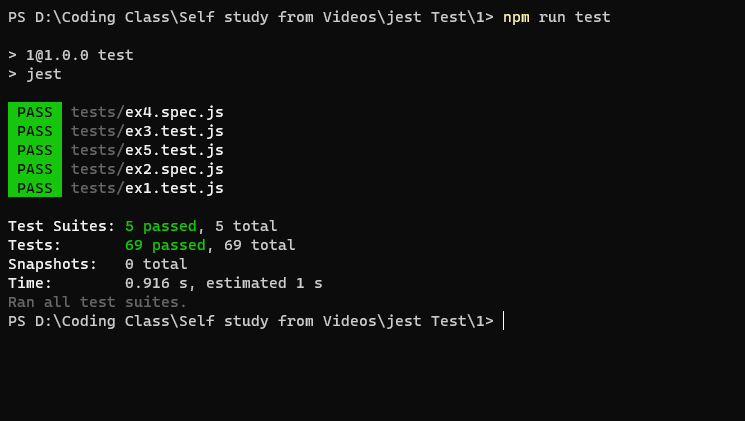
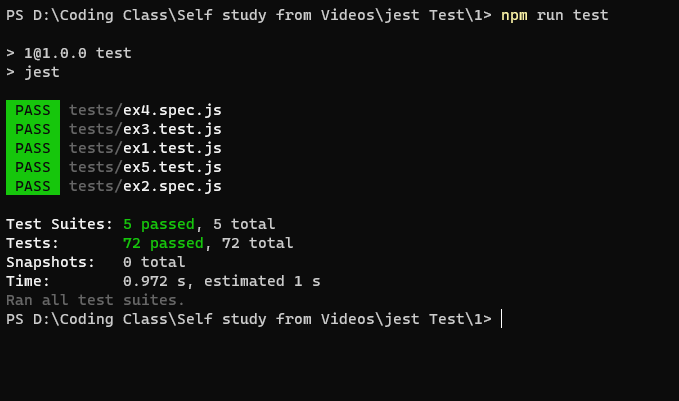
added ex2 in ex5.js file as well as new Error test.

Changed region(s): [[0.0, 0.2394, 0.7423, 0.808], [0.0, 0.0, 0.8969, 0.0599], [0.0, 0.1197, 0.2165, 0.2095]]

diff --git a/tests/ex5.test.js b/tests/ex5.test.js
@@ -1,5 +1,5 @@
 // @ts-nocheck
-const { ex1 } = require("../masalalar/ex5");
+const { ex1, ex2 } = require("../masalalar/ex5");
 
 describe(`
 Write a JavaScript function that returns a passed string with letters in alphabetical order.
@@ -34,4 +34,47 @@ Expected Output: 'abeemrstw'
   });
 });
 
-// console.log(ex1("Adfajsrewqpih")); // aAdefhijpqrsw
+describe(`
+Write a JavaScript function that accepts a string as a parameter and counts the number of vowels within the string.
+`, () => {
+  test("should return new Error 'argument must be string and can not be empty'\
+    if argument doesn't give", () => {
+    expect(ex2).toThrow();
+    expect(ex2).toThrow(/argument must be string and can not be empty/);
+  });
+  test("should return counts the number of vowels with in the string", () => {
+    let tempExample = "zokirkhon";
+    let result = ex2(tempExample);
+    expect(result).toBe(3);
+    expect(result).toEqual(3);
+    expect(result).not.toBe(2);
+    expect(result).not.toEqual(4);
+    expect(result).toBeGreaterThan(2);
+    expect(result).toBeLessThan(4);
+    expect(result).toBeGreaterThanOrEqual(3);
+    expect(result).toBeLessThanOrEqual(3);
+  });
+  it("should return 0 if there are not any vowels given within the string", () => {
+    let tempExample = "sdfghjklzxcvbnm";
+    let result = ex2(tempExample);
+    expect(result).toBe(0);
+    expect(result).not.toBe(1);
+    expect(result).not.toBe(-1);
+
+    expect(result).not.toBeTruthy();
+    expect(result).toBeFalsy();
+
+    expect(result).not.toBeNull();
+    expect(result).not.toBeUndefined();
+
+    expect(result).toEqual(0);
+    expect(result).not.toEqual(4);
+    expect(result).not.toEqual(-2);
+
+    expect(result).toBeGreaterThan(-1);
+    expect(result).toBeLessThan(1);
+
+    expect(result).toBeGreaterThanOrEqual(0);
+    expect(result).toBeLessThanOrEqual(0);
+  });
+});

diff --git a/masalalar/ex5.js b/masalalar/ex5.js
@@ -7,6 +7,15 @@ const ex1 = (/** @type {string} */ str) =>
     )
     .join("");
 
+// ex2
+const ex2 = (/** @type {string} */ str) => {
+  if (typeof str !== "string" || !str) {
+    throw new Error("argument must be string and can not be empty");
+  }
+  return str.match(/[a,e,i,o,u]/g)?.length ?? 0;
+};
+
 module.exports = {
   ex1,
+  ex2,
 };
